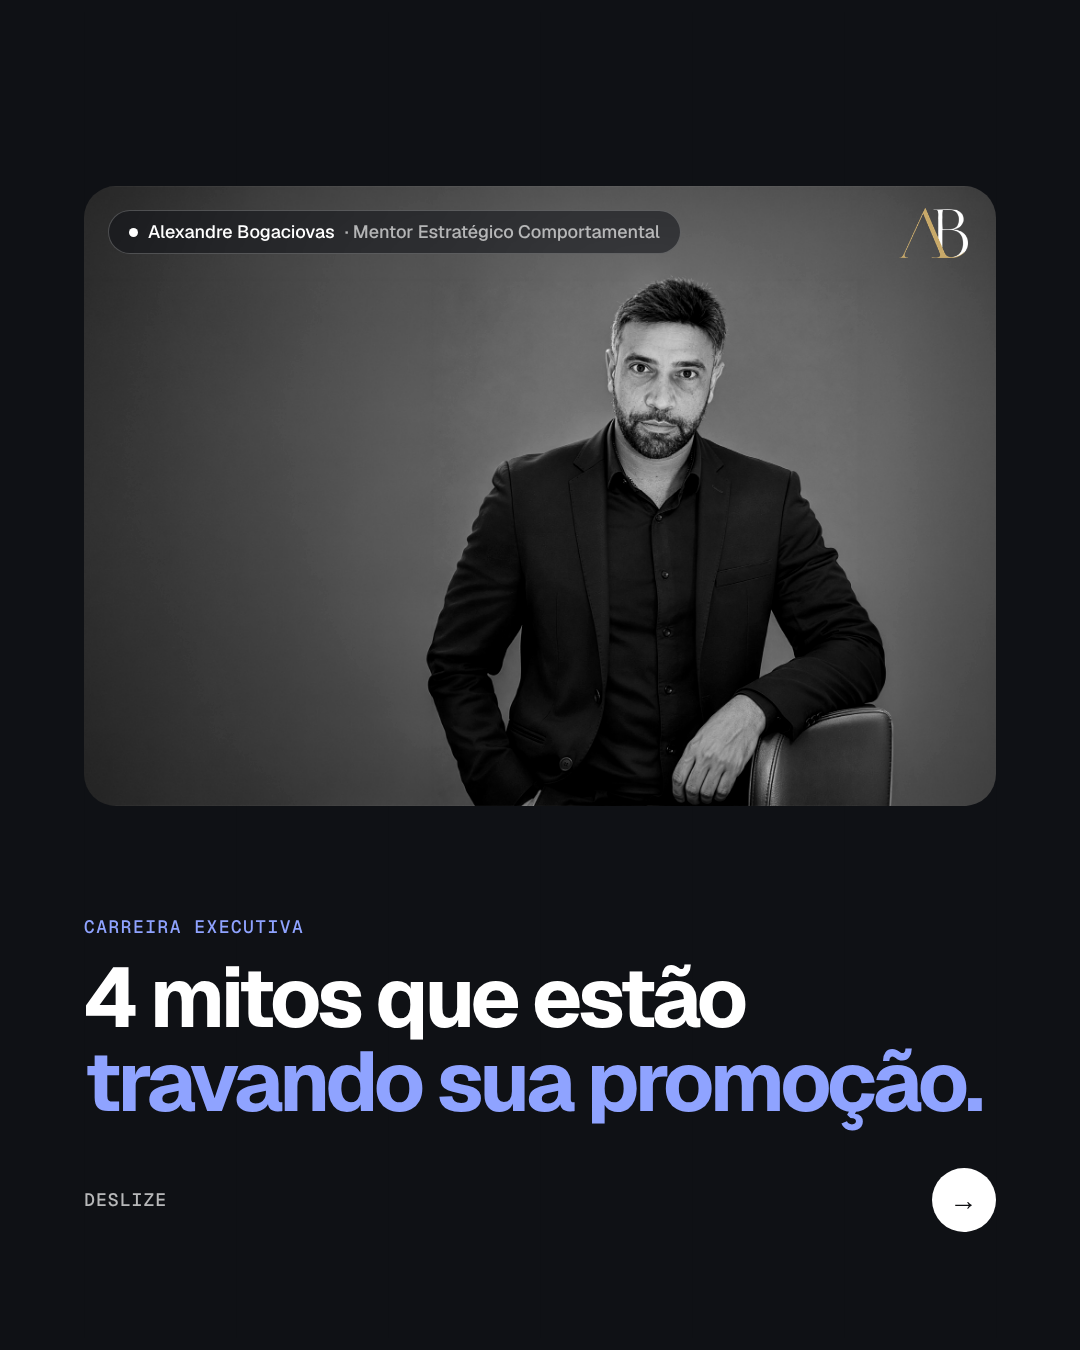
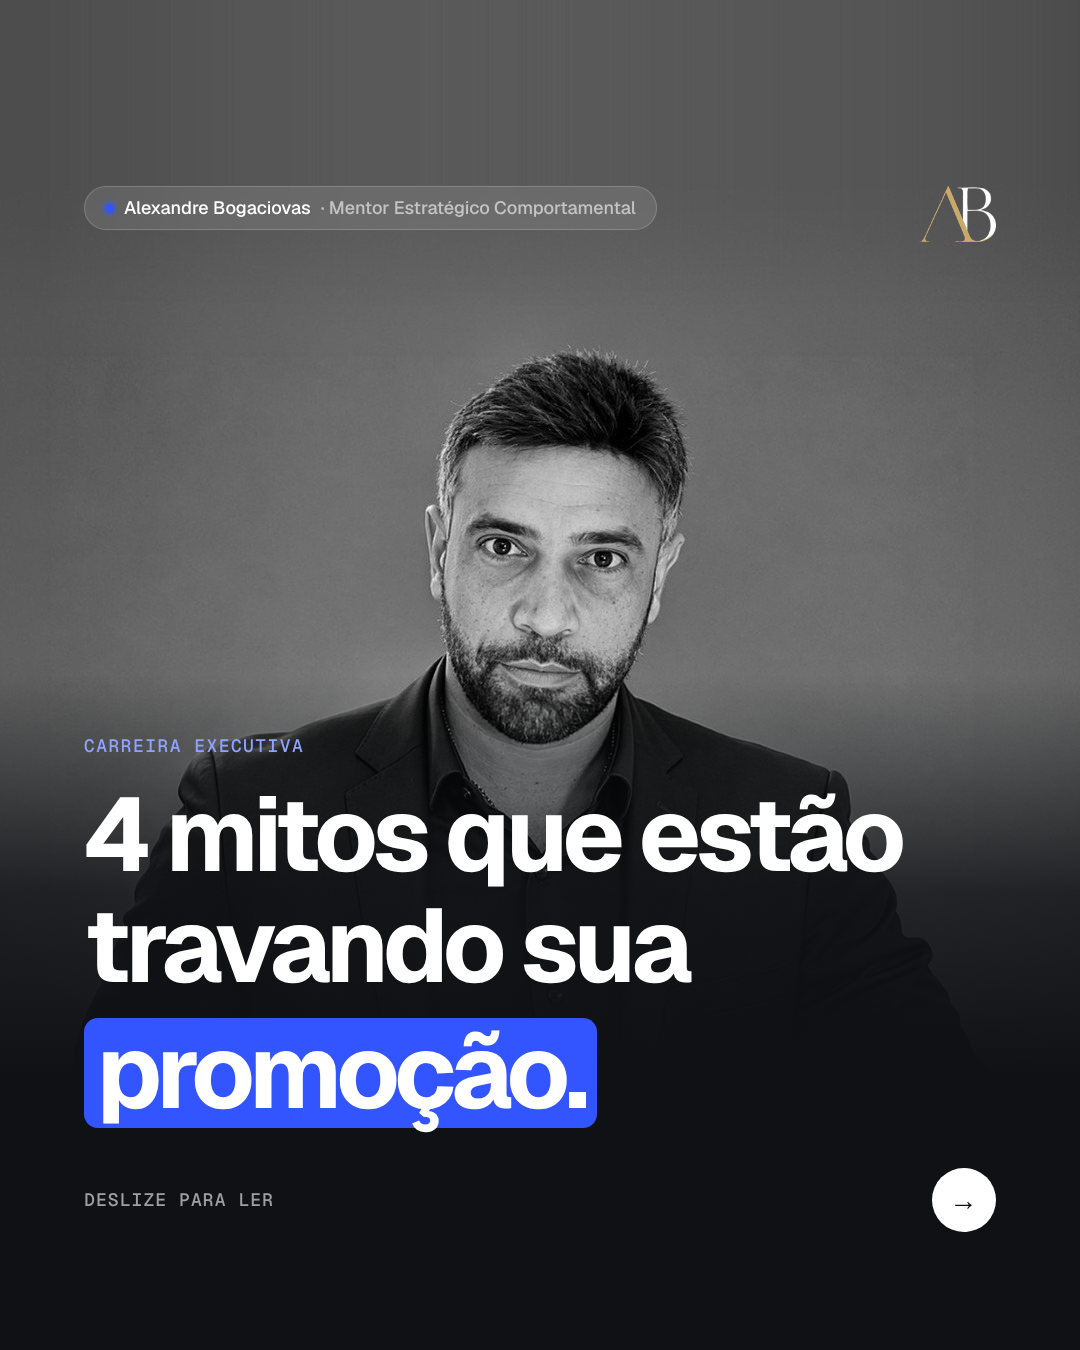
Capa moderna sem barra de progresso e foto mais baixa (cabeça livre do selo)
Claude-Session: https://claude.ai/code/session_01XJes5DVhURtV4jnmTZCFoF

diff --git a/.claude/skills/carrossel-skills-gestao/templates/moderno.html b/.claude/skills/carrossel-skills-gestao/templates/moderno.html
@@ -78,7 +78,7 @@ body{background:#666;font-family:Geist,Inter,sans-serif;-webkit-font-smoothing:a
 
 /* ---------- CAPA ---------- */
 .capa{background:var(--dark);color:#fff}
-.capa .foto{position:absolute;right:0;top:0;width:100%;height:100%;object-fit:cover;-webkit-mask:linear-gradient(transparent 0,#000 140px)}
+.capa .foto{position:absolute;right:0;top:0;width:100%;height:100%;object-fit:cover}
 .capa .shade{position:absolute;inset:0;background:linear-gradient(180deg,rgba(15,17,21,0) 0%,rgba(15,17,21,0) 50%,rgba(15,17,21,.8) 66%,#0F1115 80%)}
 .capa .topo{position:absolute;left:var(--pad);right:var(--pad);top:186px;display:flex;justify-content:space-between;align-items:flex-start;z-index:3}
 .capa .chip{display:inline-flex;align-items:center;gap:10px;background:rgba(255,255,255,.1);border:1px solid rgba(255,255,255,.18);backdrop-filter:blur(10px);
@@ -254,7 +254,7 @@ function autorCta(s,a,i,n){return `<section class="slide autor-cta ${s.estilo||'
   <div class="footer">${(a.logo_claro)?`<img class="logo" src="${a.logo_claro}">`:''}</div></section>`}
 const TIPOS={capa:(s,a,i,n)=>s.variante==='tipografica'?capaTipo(s,a,i,n):s.variante==='split'?capaSplit(s,a,i,n):capa(s,a,i,n),frase,mito,autor:autorCta};
 function capa(s,a,i,n){return `<section class="slide capa">
-  ${s.foto?`<img class="foto" src="${s.foto}" style="object-position:${s.foco||'center top'};top:${s.desce??150}px">`:''}<div class="shade"></div>
+  ${s.foto?`<img class="foto" src="${s.foto}" style="object-position:${s.foco||'center top'};top:${s.desce??150}px;${(s.desce??150)>0?'-webkit-mask:linear-gradient(transparent 0,#000 140px)':''}">`:''}<div class="shade"></div>
   <div class="topo"><div class="chip"><i></i>${esc(a.nome)} <span>· ${esc(a.subtitulo)}</span></div>${a.logo_claro?`<img class="logo" src="${a.logo_claro}">`:''}</div>
   <div class="bloco">${s.kicker?`<div class="tag">${s.kicker}</div>`:''}<h1>${s.titulo}</h1>
   <div class="rodape"><span>${s.swipe||'Deslize para ler'}</span><span class="seta">→</span></div></div></section>`}

diff --git a/.claude/skills/carrossel-skills-gestao/SKILL.md b/.claude/skills/carrossel-skills-gestao/SKILL.md
@@ -89,6 +89,8 @@ Mesma marca, estruturas diferentes. Nunca publique o mesmo padrão duas vezes se
 | **C · Mito × prática** | quebrar crenças do público | `"variante": "split"` (foto emoldurada, `"pb": true` p/ P&B) | `"tipo": "mito"` (`mito` riscado em cima, `verdade` em card escuro, `apoio`) | `exemplo/padrao-c-mitos.json` |
 | **D · Diagnóstico** | engajamento e salvamentos (quiz) | foto + pergunta | `topico` com `.quiz` (caixas para marcar) e `.faixas` (resultado 0–2 / 3–5 / 6–8) | `exemplo/padrao-d-diagnostico.json` |
 
+- **Capa com foto (moderno):** sem barra de progresso. A foto desce `150px` por padrão (campo `"desce"`) para a cabeça não ficar sob o selo/logo; use `"desce": 0` quando a própria imagem já tiver respiro no topo. Fotos muito fechadas no rosto (close) vão melhor na `"variante": "split"`.
+
 Fechamentos: `"tipo": "cta"` (fundo azul, `.chave` + `acao`) ou `"tipo": "autor"` (foto, nome, `bio` curta e CTA — reforça autoridade).
 Varie também a palavra do CTA, a cor do último slide (azul ou escuro) e a foto da capa.
 
